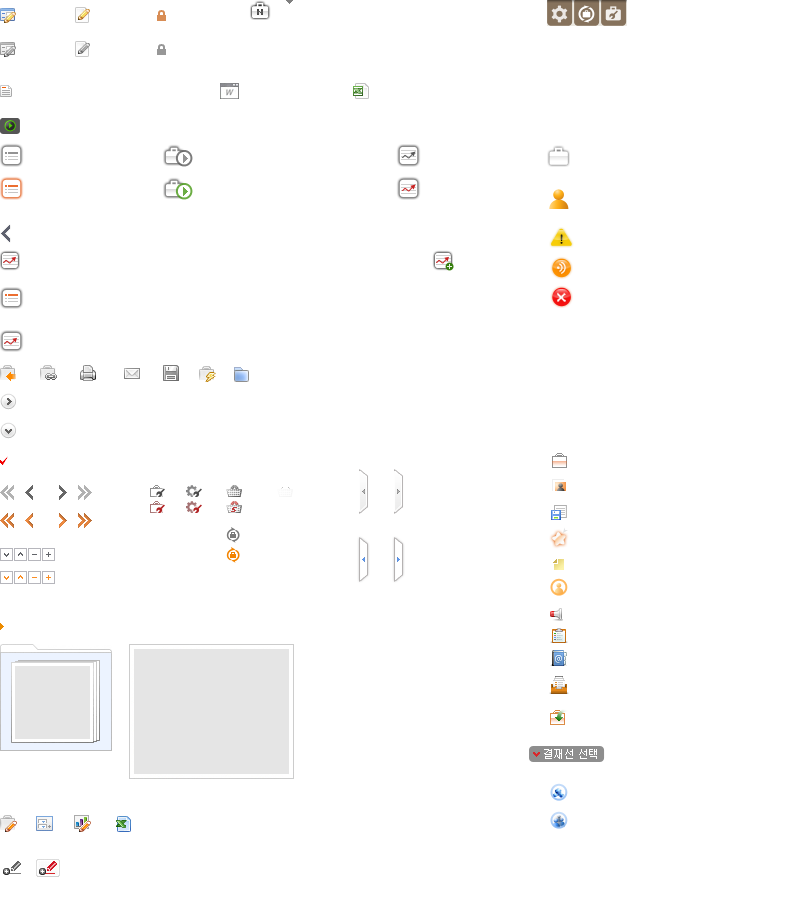
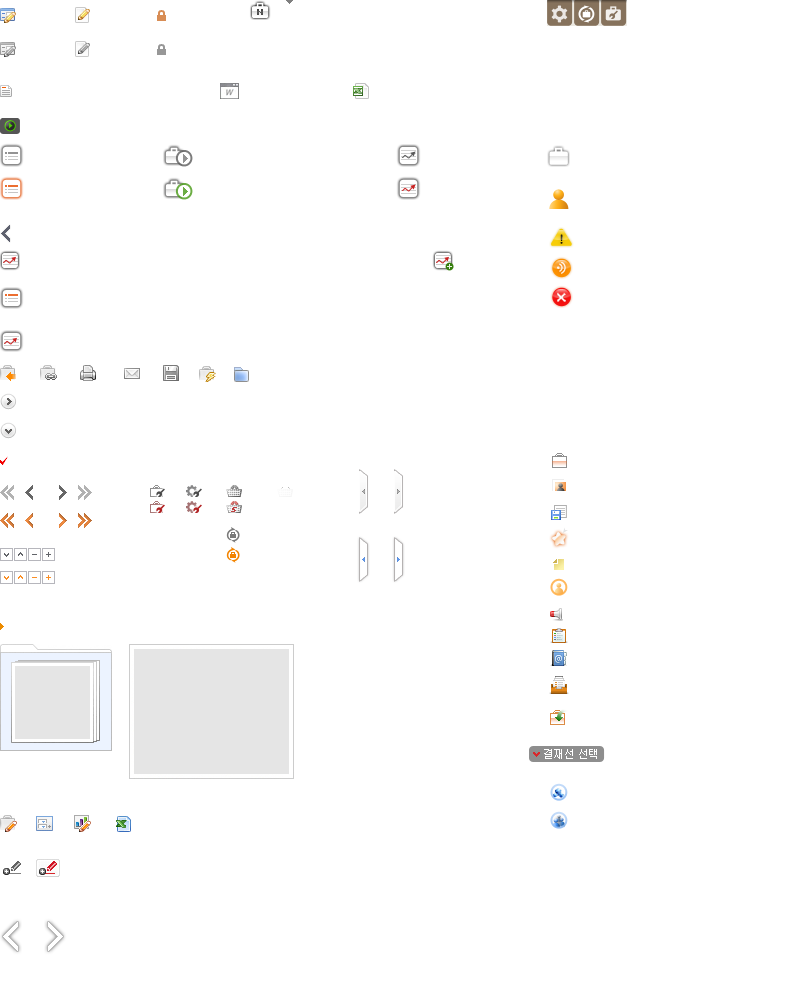
pop_사진상세.html

diff --git a/WebContent/html/pop_사진상세.html b/WebContent/html/pop_사진상세.html
@@ -1,0 +1,104 @@
+<!DOCTYPE html PUBLIC "-//W3C//DTD XHTML 1.0 Transitional//EN" "http://www.w3.org/TR/xhtml1/DTD/xhtml1-transitional.dtd">
+<html xmlns="http://www.w3.org/1999/xhtml">
+<head>
+<meta http-equiv="Content-Type" content="text/html; charset=utf-8" />
+<title>Untitled Document</title>
+</head>
+<link rel="stylesheet" type="text/css" href="../css/default.css"></link>
+<link rel="stylesheet" type="text/css" href="../css/black/layout.css"></link>
+<link rel="stylesheet" type="text/css" href="../css/black/detail.css"></link>
+<link rel="stylesheet" type="text/css" href="../css/black/chat.css"></link>
+<link rel="stylesheet" type="text/css" href="../css/black/form.css"></link>
+<link rel="stylesheet" type="text/css" href="../css/black/pop.css"></link>
+<body>
+<div id="content">
+
+<div id="simplemodal-container" class="simplemodal-container" style="position: fixed; height: 500px; width: 600px; z-index: 1002">
+<div class="simplemodal-wrap" style="height: 100%; outline: 0px none; width: 100%; overflow: visible;">
+
+<!--  전체 레이아웃 -->
+<div class="pop_corner_all pop_section_400">
+<!-- 타이틀-->
+<div class="body_titl space">
+    <div class="user fl"></div>
+    <div class="info fl">
+    	<div class="title">김지숙 > 사진</div>
+    </div>
+    
+    <div class="txt_btn">
+    <a onclick="smartPop.close();return false;" href="">
+        <div class="btn_x"></div>
+    </a>
+    </div>
+    
+    <div class="solid_line"></div>
+</div>
+<!-- 타이틀//-->
+
+<!-- 팝업 컨텐츠 -->
+<div class="space_contents">
+<!-- 사진 -->
+<div class="original_picture">
+	<div class="arrow_space">
+        <div class="btn_arr_prev"></div>
+        <div class="btn_arr_next"></div>
+	</div>
+    
+	<img src="../images/pic_space_im.jpg" />
+</div>
+<!-- 사진 //-->
+
+<!-- 컨텐츠 -->
+<div class="det_title">
+    <div class="noti_pic">
+        <a class="">
+            <img class="profile_size_m" src="../images/no_user_picture_mid.jpg">
+        </a>
+    </div>
+    <div class="noti_in_m">
+        <a href="">
+            <span class="t_name">지숙</span>
+        </a>
+        <!-- 인스턴스 마지막수정일자 -->
+        <span class="t_date pl10">16:13</span>
+        <!-- 인스턴스 마지막수정일자 //-->
+        <div>
+        gggggg
+        <span class="icon_new"></span>
+        </div>
+    </div>
+</div>
+<!-- 컨텐츠 //-->
+
+<!-- 댓글 -->
+<div class="js_comments_box" style="">
+    <!-- 댓글 -->
+    <div class="reply_point pos_reply_point"></div>
+        <div class="reply_section pos_reply">
+            <div class="list_reply">
+            <div class="reply_input comment_box" style="">
+        </div>
+    </div>
+    <!-- 댓글 //-->
+</div>
+<div class="btns_action js_action_btns">
+	<a class="js_add_comment no_hover_line">
+    	<span class="t_action t_action_disabled">댓글달기</span>
+    </a>
+    <a class="js_add_like" href="">
+    	<span class="t_action">좋아요</span>
+    </a>
+</div>
+<!-- 댓글 //-->
+
+</div>
+<!-- 팝업 컨텐츠 //-->
+
+</div>
+<!-- 전체 레이아웃//-->
+
+</div>
+</div>
+</div>
+</body>
+</html>
